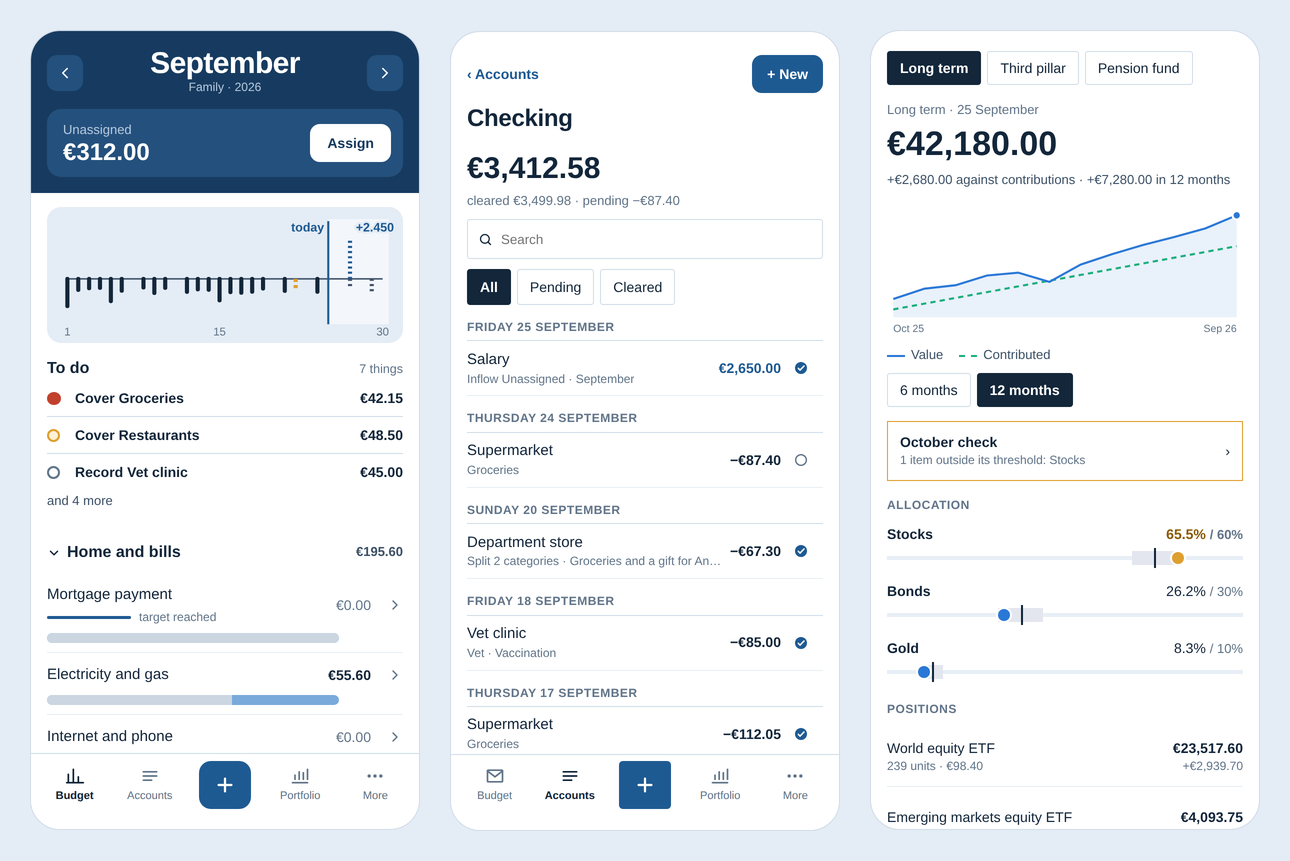
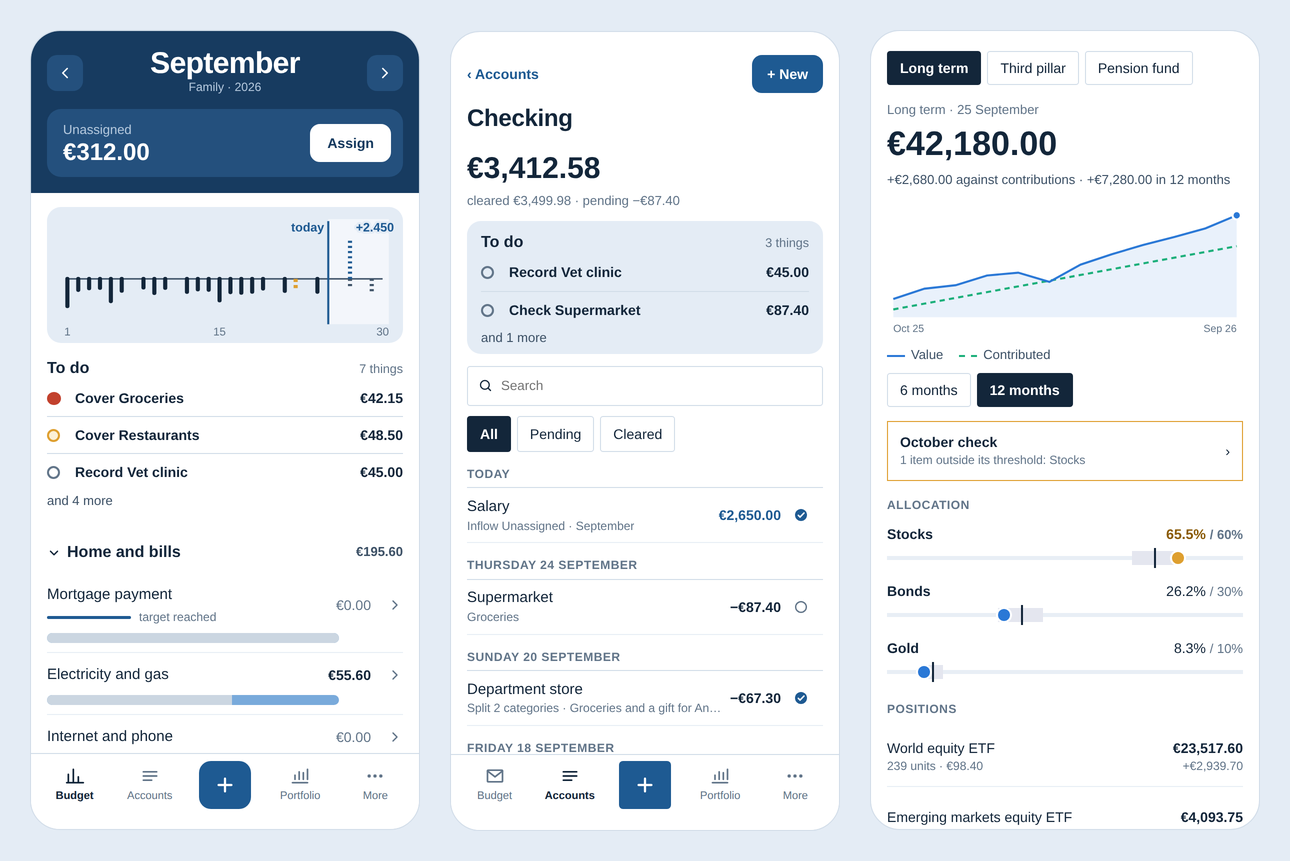
docs(ux): give the account register the budget month's look (#336)

diff --git a/docs/ux/mockups/account-register.html b/docs/ux/mockups/account-register.html
@@ -384,12 +384,58 @@ h1,h2,h3,h4,.big{font-family:var(--display);font-stretch:92%;letter-spacing:-.3p
 .band2 .me2{border:0;background:transparent;color:var(--band-muted)}
 .desk > .side .brand,.desk > .side .nav,.desk > .side .me{display:none}
 .desk > .side{padding-top:22px;background:var(--paper-2)}
+/* Account header, timeline and to-do list (same components as the budget month) */
+.acc-head{align-items:flex-end}
+.acc-head .bal{display:none}
+.acc-bal{display:flex;flex-direction:column;align-items:flex-end;gap:4px;text-align:right}
+.acc-bal small{font-size:13px;color:var(--muted)}
+.acc-bal .big{font-family:var(--display);font-stretch:88%;font-size:46px;line-height:1;font-weight:700;letter-spacing:-.8px}
+.acc-facts{display:flex;flex-wrap:wrap;justify-content:flex-end;gap:4px 20px;color:var(--muted);font-size:13px}
+.acc-facts b{color:var(--ink);font-weight:600}
+.desk:not(.nopanel) .acc-facts,.desk:not(.nopanel) .acc-bal small{display:none}
+.desk:not(.nopanel) .acc-bal .big{font-size:34px}
+.insight{display:grid;grid-template-columns:minmax(0,1.65fr) minmax(0,1fr);gap:22px;align-items:start;margin-top:22px}
+.desk:not(.nopanel) .insight{display:none}
+.time,.todo{border-radius:14px;background:var(--desk);padding:16px 18px 12px}
+.time h5,.todo h5{display:flex;justify-content:space-between;align-items:baseline;margin:0 0 6px;font-family:var(--display);font-size:17px;font-weight:700}
+.todo h5 span{font-family:var(--font);font-size:13px;font-weight:500;color:var(--muted)}
+.time svg{display:block;width:100%;height:auto}
+.t-note{margin:2px 0 0;font-size:12.5px;color:var(--muted)}
+.t-axis{stroke:var(--ink-2);stroke-width:1.5}
+.t-day{fill:var(--muted);font-size:11px}
+.t-future{fill:var(--paper);opacity:.55}
+.t-today{stroke:var(--pen);stroke-width:2}
+.t-today-l{fill:var(--pen);font-size:12px;font-weight:700}
+.t-stem{stroke-width:5;stroke-linecap:round}
+.t-stem.t-out{stroke:var(--ink)}
+.t-stem.t-out.plan{stroke:var(--ink-2);stroke-dasharray:2 3;stroke-linecap:butt}
+.t-stem.t-in{stroke:var(--pen)}
+.t-stem.t-in.plan{stroke-dasharray:2 3;stroke-linecap:butt}
+.t-stem.t-late{stroke:var(--hatch);stroke-dasharray:3 3;stroke-linecap:butt}
+.t-l{font-size:12px;fill:var(--ink-2);paint-order:stroke;stroke:var(--desk);stroke-width:4px;stroke-linejoin:round}
+.t-l.t-in{fill:var(--pen);font-weight:700}
+.t-l.t-late{fill:var(--warn);font-weight:700}
+.todo-i{display:grid;grid-template-columns:18px minmax(0,1fr) auto;gap:10px;align-items:start;width:100%;padding:9px 0;border:0;border-bottom:1px solid var(--rule);background:transparent;text-align:left;color:inherit;text-decoration:none}
+.todo-i:last-of-type{border-bottom:0}
+.todo-i b{font-weight:600}
+.todo-i small{display:block;color:var(--muted);font-size:12.5px}
+.todo-i > .n{text-align:right;font-weight:600}
+.todo-i .go-l{display:block;color:var(--pen);font-weight:600;font-size:12.5px}
+.todo-i:hover b{text-decoration:underline;text-underline-offset:3px}
+.dot{width:13px;height:13px;margin-top:4px;border-radius:50%;border:2px solid var(--muted)}
+.dot.r{border-color:var(--red);background:var(--red)}
+.dot.w{border-color:var(--hatch);background:var(--hatch-bg)}
+.ph-todo{margin-top:10px;padding:10px 14px 6px;border-radius:14px;background:var(--desk)}
+.ph-todo h5{display:flex;justify-content:space-between;align-items:baseline;margin:0;font-family:var(--display);font-size:16px;font-weight:700}
+.ph-todo h5 span{font-family:var(--font);font-size:12.5px;font-weight:500;color:var(--muted)}
+.ph-todo .todo-i{padding:8px 0}
+.ph-todo .go-l{display:none}
 </style>
 </head>
 <body>
 <div class="wrap">
   <div class="strip">
-    <p><b>envelope</b>, account register and transaction entry mockup. Click a row to edit it, use "Nuova transazione", split an expense across categories or tick transactions as cleared. On the phone: the accounts list, the register and quick entry.</p>
+    <p><b>envelope</b>, account register and transaction entry mockup. Click a row to edit it, use "Nuova transazione", split an expense across categories, tick transactions as cleared, or work through the "Da fare" list (recording the overdue scheduled transaction fills the form for you). On the phone: the accounts list, the register and quick entry.</p>
     <div class="views" role="tablist" aria-label="Vista">
       <button type="button" role="tab" id="tab-desk" aria-controls="view-desk" aria-selected="true">Desktop</button>
       <button type="button" role="tab" id="tab-phone" aria-controls="view-phone" aria-selected="false">Phone</button>
@@ -432,12 +478,14 @@ h1,h2,h3,h4,.big{font-family:var(--display);font-stretch:92%;letter-spacing:-.3p
               <h3>Conto corrente</h3>
               <div class="sub">Conto in budget · ultima riconciliazione il 5 settembre, <span class="n">1.780,73 €</span></div>
             </div>
-            <div class="bal" aria-label="Saldi del conto">
-              <div><small>Verificato</small><span class="n" id="b-cleared"></span></div>
-              <div><small>In attesa</small><span class="n" id="b-pending"></span></div>
-              <div class="main"><small>Saldo</small><span class="n" id="b-total"></span></div>
+            <div class="acc-bal" aria-label="Saldi del conto">
+              <small>Saldo</small>
+              <span class="big n" id="b-total"></span>
+              <div class="acc-facts"><span>Verificato <b class="n" id="b-cleared"></b></span><span>In attesa <b class="n" id="b-pending"></b></span><span>Previsto a fine mese <b class="n" id="b-proj"></b></span></div>
             </div>
           </div>
+
+          <div class="insight" id="insight"></div>
 
           <div class="reg-tools">
             <div class="tabs" role="group" aria-label="Filtra le transazioni" id="reg-filters"></div>
@@ -571,10 +619,106 @@ h1,h2,h3,h4,.big{font-family:var(--display);font-stretch:92%;letter-spacing:-.3p
     return hay.indexOf(state.q.toLowerCase()) >= 0;
   }
 
+  // ---- Scheduled transactions of this account (the same ones the budget month shows), timeline and to-do list
+  var TODAY = 25;
+  var SCHED = [
+    { id: 's-vet', payee: 'Clinica veterinaria', memo: 'richiamo del vaccino', cat: 'vet', amount: -4500, d: 22 },
+    { id: 's-stip', payee: 'Stipendio di Anna', amount: 245000, d: 27, income: true },
+    { id: 's-cald', payee: 'Tecnico caldaia', memo: 'revisione annuale', cat: 'manut', amount: -9000, d: 29 }
+  ];
+  var LABEL = { 'Banca, rata mutuo': 'mutuo', 'Operatore telefonico': 'telefono', 'Idraulico': 'idraulico', 'Fornitore energia': 'energia', 'Supermercato': 'spesa', 'Clinica veterinaria': 'veterinario', 'Grande magazzino': 'grande magazzino', 'Stipendio': 'stipendio', 'Stipendio di Anna': 'stipendio', 'Tecnico caldaia': 'caldaia' };
+  function lab(t) {
+    if (t.transfer) return ACC[t.transfer].type === 'credit' ? ACC[t.transfer].name : 'piano di accumulo';
+    return LABEL[t.payee] || t.payee.toLowerCase();
+  }
+  function euros(c) { return (Math.abs(c) / 100).toLocaleString('it-IT', { maximumFractionDigits: 0 }); }
+  function events() {
+    var list = [];
+    TXS.forEach(function (t) { list.push({ d: Number(t.date.slice(8)), kind: t.amount > 0 ? 'in' : 'out', amount: Math.abs(t.amount), label: lab(t) }); });
+    SCHED.forEach(function (x) { list.push({ d: x.d, kind: x.d < TODAY ? 'late' : x.income ? 'in-plan' : 'plan', amount: Math.abs(x.amount), label: lab(x) }); });
+    return list;
+  }
+  function timelineSvg() {
+    var W = 660, H = 200, AX = 100, X0 = 20, X1 = W - 20;
+    function x(d) { return X0 + (d - 1) * (X1 - X0) / 29; }
+    function len(c) { return Math.min(72, Math.sqrt(c / 100) * 1.15 + 10); }
+    var byDay = {};
+    events().forEach(function (e) {
+      var k = e.kind + ':' + e.d;
+      if (!byDay[k]) byDay[k] = { d: e.d, kind: e.kind, amount: 0, labels: [] };
+      byDay[k].amount += e.amount; byDay[k].labels.push(e.label);
+    });
+    var list = Object.keys(byDay).map(function (k) { return byDay[k]; });
+    var desc = list.slice().sort(function (a, b) { return a.d - b.d; }).map(function (e) {
+      return e.d + ' ' + e.labels.join(' e ') + ' ' + euros(e.amount) + ' €' + (e.kind === 'late' ? ' da registrare' : e.kind === 'plan' || e.kind === 'in-plan' ? ' in programma' : '');
+    }).join('; ');
+    var out = '<svg viewBox="0 0 ' + W + ' ' + H + '" role="img" aria-label="' + esc('Settembre giorno per giorno: ' + desc) + '">';
+    var tx = x(TODAY);
+    out += '<rect x="' + tx + '" y="4" width="' + (X1 - tx + 6) + '" height="' + (H - 18) + '" class="t-future"/>';
+    out += '<line x1="' + X0 + '" y1="' + AX + '" x2="' + X1 + '" y2="' + AX + '" class="t-axis"/>';
+    [1, 8, 15, 22, 30].forEach(function (d) { out += '<text x="' + x(d) + '" y="' + (H - 3) + '" text-anchor="middle" class="t-day">' + d + '</text>'; });
+    out += '<line x1="' + tx + '" y1="6" x2="' + tx + '" y2="' + (H - 14) + '" class="t-today"/><text x="' + (tx - 6) + '" y="16" class="t-today-l" text-anchor="end">oggi, ' + TODAY + '</text>';
+    // Labels: the four largest recorded outflows, everything still to come, and income.
+    var big = list.filter(function (e) { return e.kind === 'out'; }).sort(function (a, b) { return b.amount - a.amount; }).slice(0, 4);
+    var lanes = { up: [], down: [] };
+    list.sort(function (a, b) { return a.d - b.d; }).forEach(function (e) {
+      var up = e.kind === 'in' || e.kind === 'in-plan', L = len(e.amount), y2 = up ? AX - L : AX + L;
+      var cls = e.kind === 'out' ? 't-out' : e.kind === 'in' ? 't-in' : e.kind === 'in-plan' ? 't-in plan' : e.kind === 'late' ? 't-late' : 't-out plan';
+      out += '<line x1="' + x(e.d) + '" y1="' + AX + '" x2="' + x(e.d) + '" y2="' + y2 + '" class="t-stem ' + cls + '"/>';
+      if (e.kind === 'out' && big.indexOf(e) < 0) return;
+      var text = e.labels.join(', ') + ' ' + (up ? '+' : '') + euros(e.amount) + (e.kind === 'late' ? ', da registrare' : '');
+      var lane = up ? lanes.up : lanes.down, ly = y2 + (up ? 4 : 0), lx = x(e.d) + 6, w = text.length * (up || e.kind === 'late' ? 7 : 6.4);
+      // A label never crosses the "today" line: past events end before it, future ones start after it.
+      var past = e.kind === 'out' || e.kind === 'in' || e.kind === 'late';
+      if (past && lx + w > tx - 4) lx = x(e.d) - 6 - w;
+      if (!past && lx + w > W - 2) { lx = Math.max(tx + 4, W - 2 - w); ly = up ? y2 - 6 : y2 + 14; }
+      for (var i = 0; i < lane.length; i++) { if (lx < lane[i].x2 + 4 && lx + w > lane[i].x1 - 4 && Math.abs(ly - lane[i].y) < 13) { ly += up ? -13 : 13; i = -1; } }
+      lane.push({ x1: lx, x2: lx + w, y: ly });
+      out += '<text x="' + lx.toFixed(1) + '" y="' + ly.toFixed(1) + '" class="t-l ' + cls + '">' + esc(text) + '</text>';
+    });
+    return out + '</svg>';
+  }
+  function todos() {
+    var list = [], b = balances();
+    SCHED.filter(function (x) { return x.d < TODAY; }).forEach(function (x) {
+      list.push({ dot: '', title: 'Registrare ' + x.payee, sub: 'programmata del ' + dLabel('2026-09-' + (x.d < 10 ? '0' : '') + x.d) + ', non ancora nel conto', amount: Math.abs(x.amount), attr: ' data-tdrec="' + x.id + '"', verb: 'Registra' });
+    });
+    TXS.filter(function (t) { return t.status === 'pending'; }).forEach(function (t) {
+      list.push({ dot: '', title: 'Verificare ' + t.payee, sub: dLabel(t.date) + ', ancora in attesa della banca', amount: Math.abs(t.amount), attr: ' data-toggle="' + t.id + '"', verb: 'Segna' });
+    });
+    var nCleared = TXS.filter(function (t) { return t.status === 'cleared'; }).length;
+    if (nCleared) list.push({ dot: '', title: 'Riconciliare il conto', sub: nCleared + ' verificate dopo il 5 set', amount: b.cleared, href: 'import-reconciliation.html', verb: 'Riconcilia' });
+    return list;
+  }
+  function todoItems(list, max) {
+    return list.slice(0, max || list.length).map(function (t) {
+      var inner = '<span class="dot ' + t.dot + '"></span><span><b>' + esc(t.title) + '</b>' + (max ? '' : '<small>' + esc(t.sub) + '</small>') + '</span><span class="n">' + f(t.amount) + '<small class="go-l">' + t.verb + '</small></span>';
+      return t.href ? '<a class="todo-i" href="' + t.href + '">' + inner + '</a>' : '<button type="button" class="todo-i"' + t.attr + '>' + inner + '</button>';
+    }).join('');
+  }
+  function todoHtml(max) {
+    var list = todos();
+    if (!list.length) return '<h5>Da fare</h5><p class="explain">Niente da sistemare su questo conto.</p>';
+    return '<h5>Da fare <span>' + (list.length === 1 ? '1 cosa' : list.length + ' cose') + '</span></h5>' + todoItems(list, max) +
+      (max && list.length > max ? '<p class="explain" style="font-size:13px">e altre ' + (list.length - max) + '</p>' : '');
+  }
+  function projected() {
+    var p = balances().total;
+    SCHED.forEach(function (x) { p += x.amount; });
+    return p;
+  }
+  function renderInsight() {
+    el('b-proj').textContent = f(projected());
+    el('insight').innerHTML = '<div class="time"><h5>Settembre, giorno per giorno</h5>' + timelineSvg() +
+      '<p class="t-note">Entrate sopra la linea, uscite sotto; tratteggiato è quello che deve ancora arrivare, e il segno cresce con l’importo.</p></div>' +
+      '<div class="todo">' + todoHtml() + '</div>';
+  }
+
   function renderRegister() {
     var b = balances();
     el('b-cleared').textContent = f(b.cleared); el('b-pending').textContent = f(b.pending); el('b-total').textContent = f(b.total);
     el('side-bal').textContent = plainN(b.total);
+    renderInsight();
     var counts = { all: TXS.length, pending: 0, cleared: 0, locked: 0 };
     TXS.forEach(function (t) { counts[t.status]++; });
     var F = [['all', 'Tutte', 'neutral'], ['pending', 'In attesa', 'under'], ['cleared', 'Verificate', 'neutral'], ['locked', 'Riconciliate', 'neutral']];
@@ -624,8 +768,13 @@ h1,h2,h3,h4,.big{font-family:var(--display);font-stretch:92%;letter-spacing:-.3p
     });
     return out;
   }
+  function draftFromSched(x) {
+    var d = draftFrom(null);
+    d.payee = x.payee; d.amountStr = amountStr(Math.abs(x.amount)); d.cat = x.cat || RTA_ID; d.memo = x.memo || ''; d.date = '2026-09-' + (x.d < 10 ? '0' : '') + x.d; d.sched = x.id;
+    return d;
+  }
   function draftFrom(t) {
-    if (!t) return { id: null, kind: 'out', date: '2026-09-26', payee: '', amountStr: '', cat: '', transfer: '', memo: '', cleared: false, split: false, lines: [] };
+    if (!t) return { id: null, kind: 'out', date: '2026-09-25', payee: '', amountStr: '', cat: '', transfer: '', memo: '', cleared: false, split: false, lines: [] };
     return {
       id: t.id, kind: t.transfer ? 'transfer' : t.amount > 0 ? 'in' : 'out', date: t.date, payee: t.payee,
       amountStr: amountStr(Math.abs(t.amount)), cat: t.cat || '', transfer: t.transfer || '', memo: t.memo || '', cleared: t.status !== 'pending',
@@ -738,6 +887,7 @@ h1,h2,h3,h4,.big{font-family:var(--display);font-stretch:92%;letter-spacing:-.3p
       if (!d.split) LAST_CAT[t.payee] = d.cat;
     }
     if (!d.id) TXS.push(t);
+    if (d.sched) SCHED = SCHED.filter(function (x) { return x.id !== d.sched; });
     state.sel = state.where === 'desk' ? t.id : null; state.draft = null; state.errors = [];
     if (state.where === 'ph') ph.screen = 'register';
     renderAll();
@@ -790,7 +940,7 @@ h1,h2,h3,h4,.big{font-family:var(--display);font-stretch:92%;letter-spacing:-.3p
   function phRegisterHtml() {
     var b = balances(), rows = sorted().reverse().filter(phMatches), html = '', day = null;
     rows.forEach(function (t) {
-      if (t.date !== day) { day = t.date; var q = day.split('-'); html += '<div class="ph-day">' + (day === '2026-09-26' ? 'Oggi' : LONGDAY.format(new Date(Date.UTC(+q[0], +q[1] - 1, +q[2])))) + '</div>'; }
+      if (t.date !== day) { day = t.date; var q = day.split('-'); html += '<div class="ph-day">' + (day === '2026-09-25' ? 'Oggi' : LONGDAY.format(new Date(Date.UTC(+q[0], +q[1] - 1, +q[2])))) + '</div>'; }
       var sub = catText(t).replace(/<[^>]+>/g, ' ').replace(/\s+/g, ' ').trim();
       html += '<div class="ph-tx"><button type="button" class="open" data-phopen="' + t.id + '"><span class="who"><b>' + esc(t.payee) + '</b><small>' + esc(sub) + (t.memo ? ' · ' + esc(t.memo) : '') + '</small></span>' +
         '<span class="amt n' + (t.amount > 0 ? ' in' : '') + '">' + f(t.amount) + '</span></button>' +
@@ -801,7 +951,8 @@ h1,h2,h3,h4,.big{font-family:var(--display);font-stretch:92%;letter-spacing:-.3p
     return '<div class="ph-h"><button type="button" class="ph-back" data-phscreen="accounts">‹ Conti</button><button type="button" class="btn primary" data-phnew="1">+ Nuova</button></div>' +
       '<div class="ph-h" style="margin-top:6px"><h3>Conto corrente</h3></div>' +
       '<div class="ph-bal"><b class="n">' + f(b.total) + '</b><span class="n">verificato ' + f(b.cleared) + ' · in attesa ' + f(b.pending) + '</span></div>' +
-      '<label class="ph-search"><svg width="15" height="15" viewBox="0 0 24 24" fill="none" stroke="currentColor" stroke-width="2" stroke-linecap="round" aria-hidden="true"><circle cx="11" cy="11" r="7"></circle><path d="m20 20-4-4"></path></svg><span class="sr">Cerca</span><input type="search" id="ph-search" value="' + esc(ph.q) + '" placeholder="Cerca"></label>' +
+      '<div class="ph-todo">' + todoHtml(2) + '</div>' +
+      '<label class="ph-search" style="margin-top:12px"><svg width="15" height="15" viewBox="0 0 24 24" fill="none" stroke="currentColor" stroke-width="2" stroke-linecap="round" aria-hidden="true"><circle cx="11" cy="11" r="7"></circle><path d="m20 20-4-4"></path></svg><span class="sr">Cerca</span><input type="search" id="ph-search" value="' + esc(ph.q) + '" placeholder="Cerca"></label>' +
       '<div class="ph-chips">' + chips + '</div>' + html;
   }
   function phAccountsHtml() {
@@ -853,6 +1004,10 @@ h1,h2,h3,h4,.big{font-family:var(--display);font-stretch:92%;letter-spacing:-.3p
       state.where = 'desk'; state.sel = d.open; state.draft = draftFrom(TXS.filter(function (x) { return x.id === d.open; })[0]); state.errors = [];
       return renderAll();
     }
+    if (d.tdrec) {
+      var sc = SCHED.filter(function (x) { return x.id === d.tdrec; })[0];
+      state.where = 'desk'; state.sel = null; state.draft = draftFromSched(sc); state.errors = []; renderAll(); var pa = el('tx-amt'); if (pa) pa.focus(); return;
+    }
     if (d.close) { state.sel = null; state.draft = null; state.errors = []; return renderAll(); }
     if (d.unlock) { state.draft.locked = false; var tt = TXS.filter(function (x) { return x.id === state.draft.id; })[0]; tt.status = 'cleared'; return renderAll(); }
     if (d.split === 'on') {
@@ -886,7 +1041,7 @@ h1,h2,h3,h4,.big{font-family:var(--display);font-stretch:92%;letter-spacing:-.3p
       var cents = qeCents();
       CAT[qe.cat].avail -= cents;
       qe.done = { amount: -cents, payee: qe.payee || 'Spesa', cat: CAT[qe.cat].name, after: CAT[qe.cat].avail, acc: { visa: 'Visa', cc: 'Conto corrente', cont: 'Contanti' }[qe.acc] };
-      if (qe.acc === 'cc') TXS.push(tx({ date: '2026-09-26', payee: qe.done.payee, amount: -cents, cat: qe.cat, status: 'pending' }));
+      if (qe.acc === 'cc') TXS.push(tx({ date: '2026-09-25', payee: qe.done.payee, amount: -cents, cat: qe.cat, status: 'pending' }));
       return renderAll();
     }
   });

diff --git a/docs/design.md b/docs/design.md
@@ -450,7 +450,7 @@ In an encrypted workspace the server sees which fields change and when, but not 
 - Biometric unlock; amounts hidden when the app goes to the background.
 - Instant budget notifications (negative category, purchase exceeds the available balance, money to assign); for the portfolio, only the monthly rebalancing summary.
 - Widget with the available amounts of favorite categories (phase 3).
-- Account list and register on the phone: balances, transactions grouped by day, search, marking transactions as cleared, and editing a transaction in a full-screen form.
+- Account list and register on the phone: balances, the first two things to do, transactions grouped by day, search, marking transactions as cleared, and editing a transaction in a full-screen form.
 
 ## User interface
 
@@ -491,7 +491,7 @@ Both themes follow the operating system setting and can be forced in the user's 
 ### Budget month on the desktop
 
 - **Band:** the mariner band across the top replaces the sidebar. First line: the wordmark, navigation (Budget, Accounts, Portfolio) as rounded tabs, the workspace switcher and the user menu. Second line: the month with previous and next arrows, the "unassigned" box with its Assign button (its amount turns red when negative), and on the right money reserved for scheduled transactions, money already assigned to future months and days of buffer. Accounts and their balances live on the Accounts screen, not on every screen.
-- **Timeline:** "September, day by day", a line of the month's days. Outflows hang below it, income rises above it, and the length of each mark grows with the square root of the amount, so a mortgage payment and a coffee both stay readable. Recorded movements are solid; scheduled ones are dashed, an overdue one amber. Days after today sit on a lighter ground behind a "today" line. The largest outflows, everything still to come and all income carry a short label (payee and amount); labels never cross the "today" line and step down a line instead of overlapping.
+- **Timeline:** "September, day by day", a line of the month's days. Outflows hang below it, income rises above it, and the length of each mark grows with the square root of the amount, so a mortgage payment and a coffee both stay readable. The account register shows the same timeline for one account, with transfers counted as outflows. Recorded movements are solid; scheduled ones are dashed, an overdue one amber. Days after today sit on a lighter ground behind a "today" line. The largest outflows, everything still to come and all income carry a short label (payee and amount); labels never cross the "today" line and step down a line instead of overlapping.
 - **To do:** next to the timeline, a list of what needs attention, each with its amount and one action: overspent categories ("Cover Groceries", red dot for cash, amber for card), scheduled transactions to record ("Record"), reservations a category cannot cover, cards' uncovered debt and, as one line, the targets still missing money ("Fund"). Opening an item opens its category in its row. It replaces the old one-line notices; an empty list says there is nothing to fix this month.
 - **Toolbar:** above the bars, filter tabs with a count badge each: All, Underfunded (amber: missing target money, reservations not covered, uncovered card debt), Overspent (red), With money; a zero count is shown outlined. Buttons: Summary, Targets, Scheduled, Quick assign, Move money, Undo (reverses the last assignment action, see below). After every assignment, move, recording or skip, a one-line confirmation says what happened, with "Undo" when it was an assignment.
 - **Bars:** one per category, grouped. A group row (tinted, rounded) has a chevron that collapses it, a name that opens the group's summary in the side sheet, a red badge with the number of overspent categories it holds, and the group's available amount. A category row has three parts. Its name, with a muted line of what was spent of what it was given ("€642.15 spent of €600.00", "€350.00 to spend") and up to one more status line: the target meter ("€35.00 still needed this month", "target reached", "on track, €42.86 a month"), the clock line of a reservation ("€90.00 reserved · Boiler service, 29 Sep", "to record" when overdue, "€8.96 missing" in amber), or on a card's payment category the debt meter ("€48.50 to cover of €642.30 of debt"). The bar: its track (82 % of the width) is carried over plus assigned; inside it, spent (`spent`), reserved (stripes) and still available (`bar`); past its end, at most 18 % more, cash overspending (solid red), card overspending (amber hatching) or a reservation beyond what is left (dashed amber outline). A card's payment category draws its debt instead: covered in `bar`, uncovered hatched. And the available amount, in the same cells as before (red block, hatched "card", dashed "reserved"). A legend under the bars names the five fills. Available is net of reservations.
@@ -515,7 +515,7 @@ One column in the desktop's order: the band with the month, unassigned money and
 
 Every screen uses the same band for navigation and the same tokens and type. The account register keeps its list of accounts as the screen's own first column; import, settings and the portfolio use the full width under the band.
 
-- **Account register.** Desktop: the account's cleared, pending and total balance; filters by state with counts; search; transactions newest first with a running balance, splits shown under their row; a round control on each row switches pending and cleared, reconciled rows show a padlock. A row opens in the side sheet: outflow, inflow or transfer; the payee proposes the category used last time; the category's available amount before and after; splitting across categories with the amount still to split; transfers to a credit card are card payments, transfers to an off-budget account ask for a category. Phone: accounts list, register grouped by day, full-screen transaction form, and quick entry (amount keypad, place, category with its available amount, account).
+- **Account register.** Desktop: the account's name and, large in the display face, its balance, with the cleared and pending amounts and the projected balance at the end of the month (today's balance plus the scheduled transactions of the month that are not recorded yet) beside it; under it the same timeline as the budget month, for this account only, next to a "To do" list: record a scheduled transaction that is overdue ("Record", which opens the side sheet filled in), mark a pending transaction as cleared ("Mark"), reconcile when there are cleared transactions since the last reconciliation ("Reconcile"). The timeline and the list fold away while the side sheet is open, to leave the register room; filters by state with counts; search; transactions newest first with a running balance, splits shown under their row; a round control on each row switches pending and cleared, reconciled rows show a padlock. A row opens in the side sheet: outflow, inflow or transfer; the payee proposes the category used last time; the category's available amount before and after; splitting across categories with the amount still to split; transfers to a credit card are card payments, transfers to an off-budget account ask for a category. Phone: accounts list, register grouped by day with the first two things to do under the balance (no timeline), full-screen transaction form, and quick entry (amount keypad, place, category with its available amount, account).
 - **Import and reconciliation.** Import in four steps (file, columns, check, done) and reconciliation with the statement balance, the difference, clues and locking, as described in "Import and reconciliation".
 - **Settings.** Two separate places. *Your account*, from the user menu, holds what belongs to the person and applies in every workspace: profile, language, number and date format, personal time zone, theme, notifications and devices, sign-in and security. *Workspace settings*, from the workspace switcher, hold what every member shares: name, currency and the workspace time zone, members and roles, categories and groups, accounts, data export and deletion. Changing workspace settings needs the owner role, except categories, which editors can manage.
 - **First run.** Five steps: a short introduction to how the budget works, the workspace, the first account with today's balance (cash accounts only; credit cards are added later), the starting categories, and the unassigned amount.

diff --git a/README.md b/README.md
@@ -38,7 +38,7 @@
 | --- | --- |
 | [![The sign-in screen: a wordmark, a tagline and a single "Sign in" button — the app owns no credentials of its own, so this is a redirect, not a login form](docs/ux/screenshots/sign-in.png)](docs/ux/screenshots/sign-in.png) | [![Choosing which workspace to work in, with two to pick from; skipped automatically when there is only one](docs/ux/screenshots/workspace-picker.png)](docs/ux/screenshots/workspace-picker.png) |
 | **Account register** ([mockup](docs/ux/mockups/account-register.html)) | **Reconciliation** ([mockup](docs/ux/mockups/import-reconciliation.html)) |
-| [![An account register with cleared, pending and reconciled transactions, and a split transaction open for editing](docs/ux/screenshots/account-register.png)](docs/ux/screenshots/account-register.png) | [![Reconciliation: the statement balance, the difference and a clue that points to the pending transaction that explains it](docs/ux/screenshots/reconciliation.png)](docs/ux/screenshots/reconciliation.png) |
+| [![An account register: the balance, the account's month as a timeline of days next to a to-do list, and the transactions with their cleared, pending and reconciled marks](docs/ux/screenshots/account-register.png)](docs/ux/screenshots/account-register.png) | [![Reconciliation: the statement balance, the difference and a clue that points to the pending transaction that explains it](docs/ux/screenshots/reconciliation.png)](docs/ux/screenshots/reconciliation.png) |
 | **Portfolio** ([mockup](docs/ux/mockups/portfolio.html)) | **On the phone** |
 | [![A portfolio with its value against contributions over twelve months, the allocation bars against targets and thresholds, and the positions](docs/ux/screenshots/portfolio.png)](docs/ux/screenshots/portfolio.png) | [![Three phone screens: the budget month, an account register and a portfolio with a small chart](docs/ux/screenshots/phones.png)](docs/ux/screenshots/phones.png) |
 

diff --git a/docs/ux/README.md b/docs/ux/README.md
@@ -48,8 +48,8 @@ Extracted from patterns already repeated across the mockups — name them this w
 | Count badge | A small, coloured number (red for overspent, amber for underfunded) on a group row or a filter tab | Budget month table, toolbar |
 | Band | The mariner header: navigation, workspace switcher, user menu; on the budget month also the month and unassigned money | Every mockup |
 | Category bar | Track = what a category was given; spent, reserved and available inside; overspending or an uncovered reservation past the end; a payment category draws its debt | Budget month |
-| Timeline | The month's days as a line, outflows below, income above, dashed when still to come, a "today" line | Budget month (desktop and phone) |
-| To-do list | What needs attention, each with its amount and one action (Open, Record, Fund) | Budget month (desktop and phone) |
+| Timeline | The month's days as a line, outflows below, income above, dashed when still to come, a "today" line | Budget month (desktop and phone), account register (desktop) |
+| To-do list | What needs attention, each with its amount and one action (Open, Record, Fund, Mark, Reconcile) | Budget month (desktop and phone), account register (desktop and phone) |
 | Toast | A one-line confirmation after an action, with an optional "Undo" | Budget month, account register |
 | Row detail | A category's detail opened in place under its bar, in columns, closed with "× Close", the row again, or Esc | Budget month |
 | Side sheet | A fixed-width sheet on the right for month-wide tools and forms, closed with "× Close", the same button again, or Esc | Budget month, account register |

diff --git a/CHANGELOG.md b/CHANGELOG.md
@@ -30,6 +30,7 @@ Each entry groups changes under **Added**, **Changed**, **Fixed** and **Removed*
 ### Changed
 
 - Documentation: a new visual design. A mariner band replaces the sidebar on every screen; the budget month shows the month as a timeline of days next to a "To do" list, and each category as a bar (given, spent, reserved, overspent past the end) instead of a table of assigned, activity and available; a category's detail opens in its own row and month-wide tools in a side sheet. New palette (pale sea blue, graphite in the dark theme), Bricolage Grotesque and Figtree instead of Archivo, sentence-case labels. All mockups, `docs/design.md` ("User interface"), `docs/ux/README.md` and the README screenshots follow it.
+- Documentation: the account register takes on the budget month's visual language — the balance large in the display face with the projected balance at month end, the same timeline for the account's own days, and a "To do" list (record an overdue scheduled transaction, mark a pending one as cleared, reconcile) instead of a bordered row of three balances; the mockup, `docs/design.md`, `docs/ux/README.md` and the README screenshots are updated.
 
 ### Fixed
 
